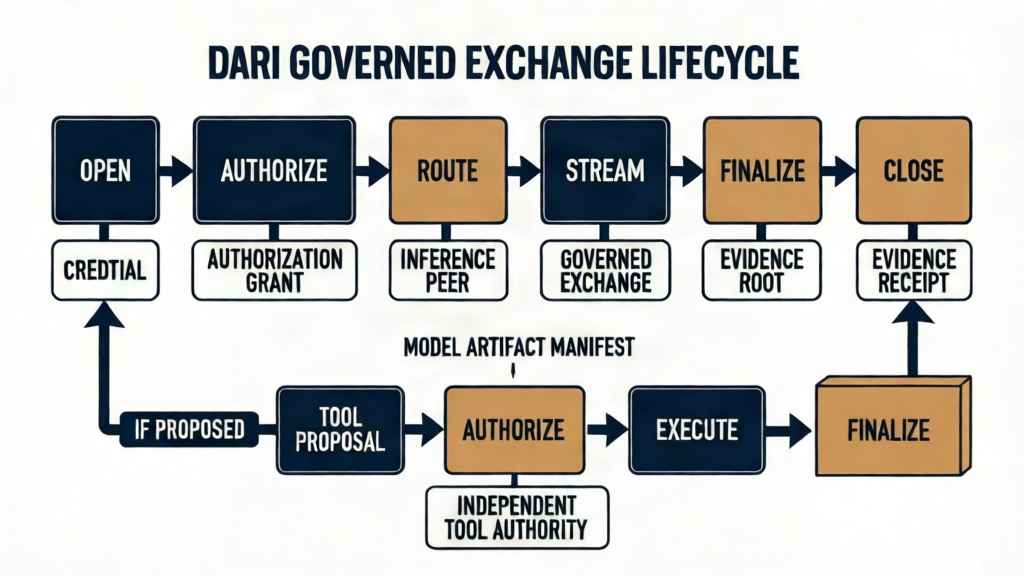
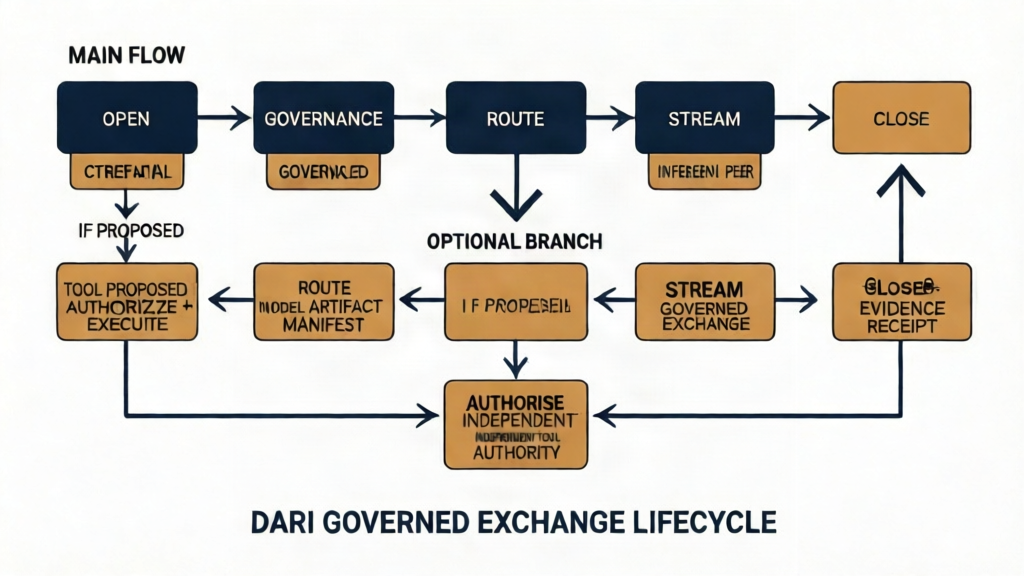
feat: CSV export on all 5 core entity pages
- Users, Sessions, Harnesses, Projects, Repositories all have CSV export
- Korean headers + Excel BOM + date-stamped filenames

diff --git a/web/src/pages/Harnesses.tsx b/web/src/pages/Harnesses.tsx
@@ -79,6 +79,18 @@ export default function Harnesses() {
         <h1 className="text-2xl font-bold">하네스 <span className="text-gray-400 text-lg font-normal">Harnesses</span></h1>
           {org && <span className="text-xs text-gray-400 ml-4">{harnesses.filter(h => h.status !== 'revoked').length}/{org.max_harness_seats || '∞'} 좌석</span>}
         <button onClick={() => setShowForm(!showForm)} className="btn-primary">{showForm ? '취소' : '+ 하네스 등록'}</button>
+        <button onClick={() => {
+          const headers = ['하네스 ID', '버전', '상태', '위험도', '사용자', '등록일']
+          const rows = harnesses.map(h => [h.harness_id || '', h.binary_version || '', h.status || '', h.risk_state || '', (users.find(u => { try { return JSON.parse(h.allowed_users || '[]').includes(u.id) } catch { return false } })?.name_ko) || '', h.enrolled_at?.slice(0,10) || ''])
+          const csv = [headers, ...rows].map(r => r.map(c => `"${c || ''}"`).join(',')).join('\n')
+          const blob = new Blob(['\ufeff' + csv], { type: 'text/csv;charset=utf-8' })
+          const url = URL.createObjectURL(blob)
+          const a = document.createElement('a')
+          a.href = url
+          a.download = `harnesses_${new Date().toISOString().slice(0,10)}.csv`
+          a.click()
+          URL.revokeObjectURL(url)
+        }} className="btn-sm btn-secondary ml-2">📥 CSV</button>
       </div>
 
       {showForm && (

diff --git a/web/src/pages/Sessions.tsx b/web/src/pages/Sessions.tsx
@@ -138,6 +138,18 @@ export default function Sessions() {
       <div className="flex justify-between items-center mb-6">
         <h1 className="text-2xl font-bold">AI 세션 <span className="text-gray-400 text-lg font-normal">AI Sessions</span></h1>
         <button onClick={() => setShowForm(!showForm)} className="btn-primary">{showForm ? '취소' : '+ 세션 시작'}</button>
+        <button onClick={() => {
+          const headers = ['제목', '개발자', '모델', '브랜치', '상태', '시작일']
+          const rows = sessions.map(s => [s.title || '', s.user_id || '', s.model_class || '', s.branch || '', s.status || '', s.opened_at?.slice(0,10) || ''])
+          const csv = [headers, ...rows].map(r => r.map(c => `"${c || ''}"`).join(',')).join('\n')
+          const blob = new Blob(['\ufeff' + csv], { type: 'text/csv;charset=utf-8' })
+          const url = URL.createObjectURL(blob)
+          const a = document.createElement('a')
+          a.href = url
+          a.download = `sessions_${new Date().toISOString().slice(0,10)}.csv`
+          a.click()
+          URL.revokeObjectURL(url)
+        }} className="btn-sm btn-secondary ml-2">📥 CSV</button>
       </div>
 
       {showForm && (

diff --git a/web/src/pages/Repositories.tsx b/web/src/pages/Repositories.tsx
@@ -94,6 +94,18 @@ export default function Repositories() {
         <button onClick={() => { setEditingId(null); setForm({ name: '', slug: '', project_id: '', scm_provider: 'github', clone_url: '', default_branch: 'main' }); setShowForm(!showForm) }} className="btn-primary">
           {showForm ? '취소' : '+ 저장소 추가'}
         </button>
+        <button onClick={() => {
+          const headers = ['저장소명', 'SCM', 'Clone URL', '기본 브랜치', '민감도', '상태']
+          const rows = repos.map(r => [r.name || '', r.scm_provider || '', r.clone_url || '', r.default_branch || '', r.sensitivity || '', r.status || ''])
+          const csv = [headers, ...rows].map(row => row.map(c => `"${c || ''}"`).join(',')).join('\n')
+          const blob = new Blob(['\ufeff' + csv], { type: 'text/csv;charset=utf-8' })
+          const url = URL.createObjectURL(blob)
+          const a = document.createElement('a')
+          a.href = url
+          a.download = `repos_${new Date().toISOString().slice(0,10)}.csv`
+          a.click()
+          URL.revokeObjectURL(url)
+        }} className="btn-sm btn-secondary ml-2">📥 CSV</button>
       </div>
 
       {showForm && (

diff --git a/web/src/pages/Projects.tsx b/web/src/pages/Projects.tsx
@@ -93,6 +93,17 @@ export default function Projects() {
         <button onClick={() => { if (editingId) { setEditingId(null); setForm({ name: '', name_ko: '', slug: '', allowed_models: 'patty-code-standard', description: '' }) } setShowForm(!showForm) }} className="btn-primary">
           {showForm ? '취소' : '+ 프로젝트 생성'}
         </button>
+        <button onClick={() => {
+          const headers = ['프로젝트명', '한글명', '슬러그', '상태', '생성일']
+          const rows = filtered.map(p => [p.name || '', p.name_ko || '', p.slug || '', p.status || '', p.created_at?.slice(0,10) || ''])
+          const csv = [headers, ...rows].map(r => r.map(c => `"${c || ''}"`).join(',')).join('\n')
+          const blob = new Blob(['\ufeff' + csv], { type: 'text/csv;charset=utf-8' })
+          const a = document.createElement('a')
+          a.href = URL.createObjectURL(blob)
+          a.download = `projects_${new Date().toISOString().slice(0,10)}.csv`
+          a.click()
+          URL.revokeObjectURL(a.href)
+        }} className="btn-sm btn-secondary ml-2">📥 CSV</button>
       </div>
 
       {showForm && (
